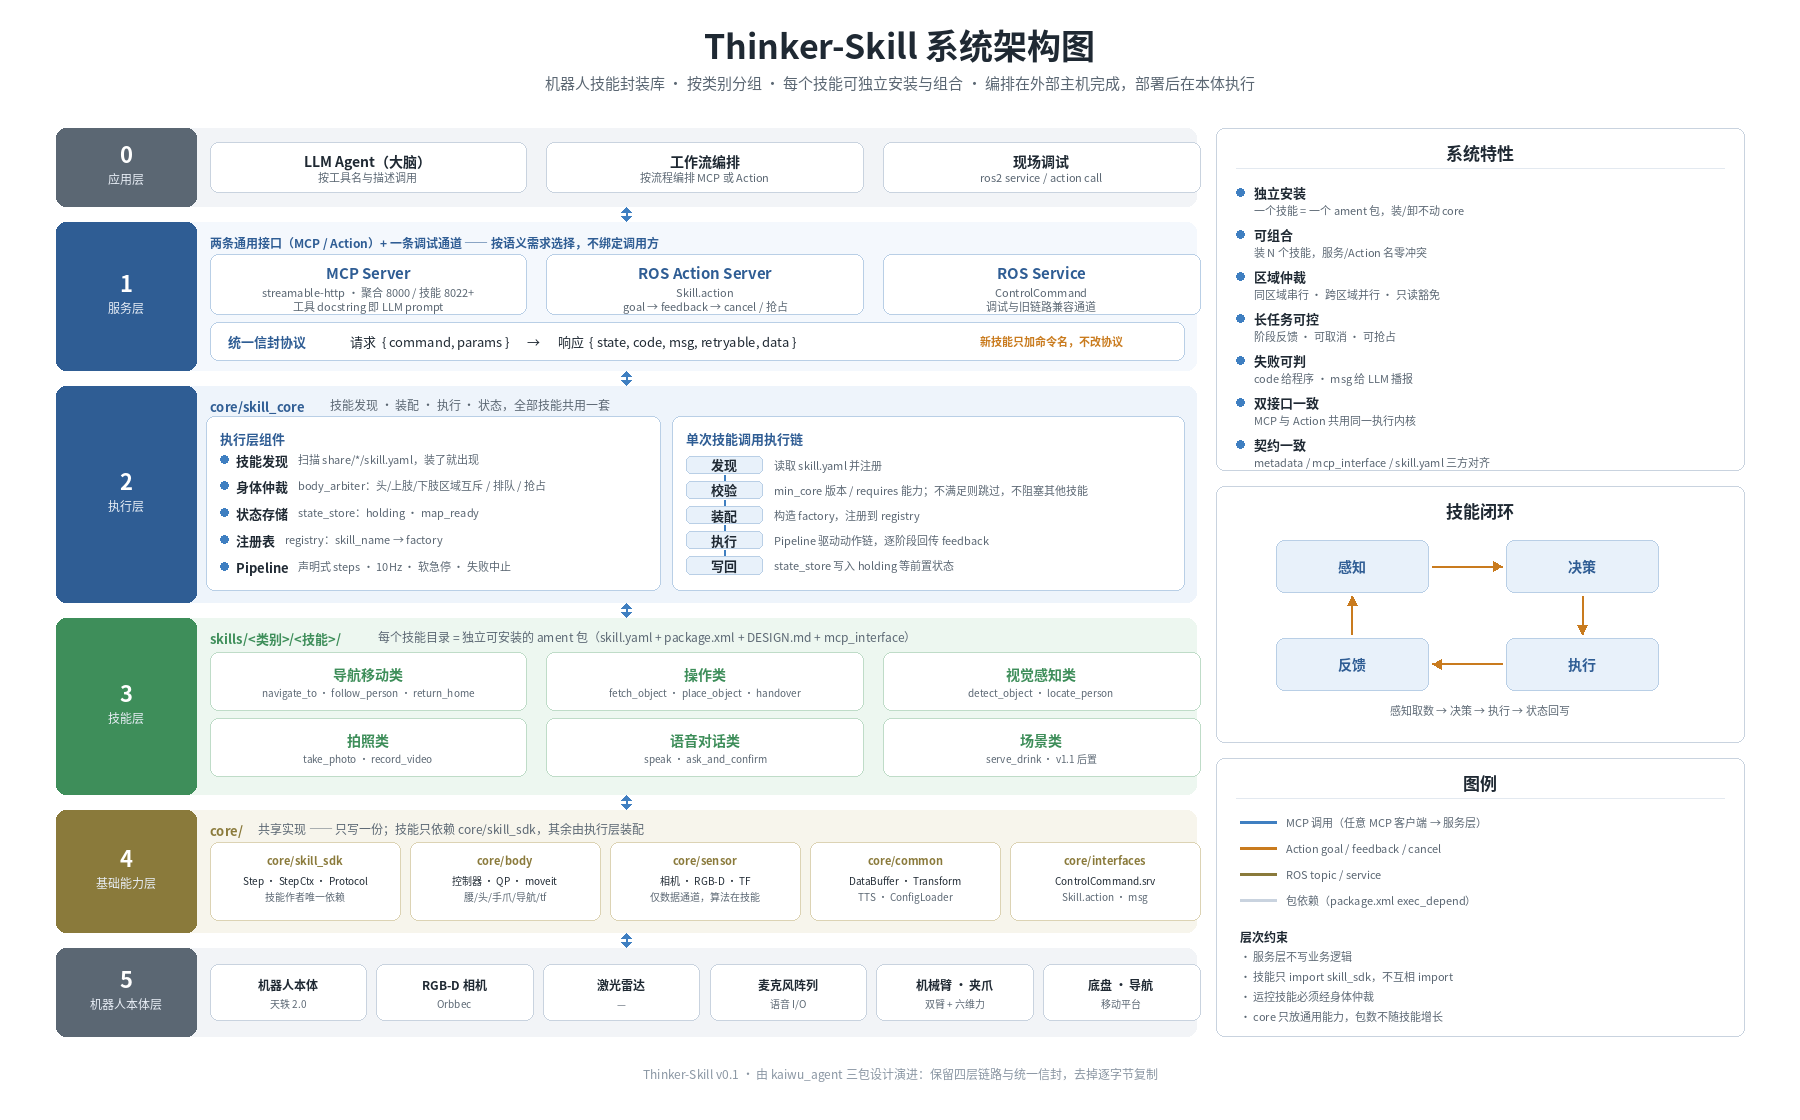
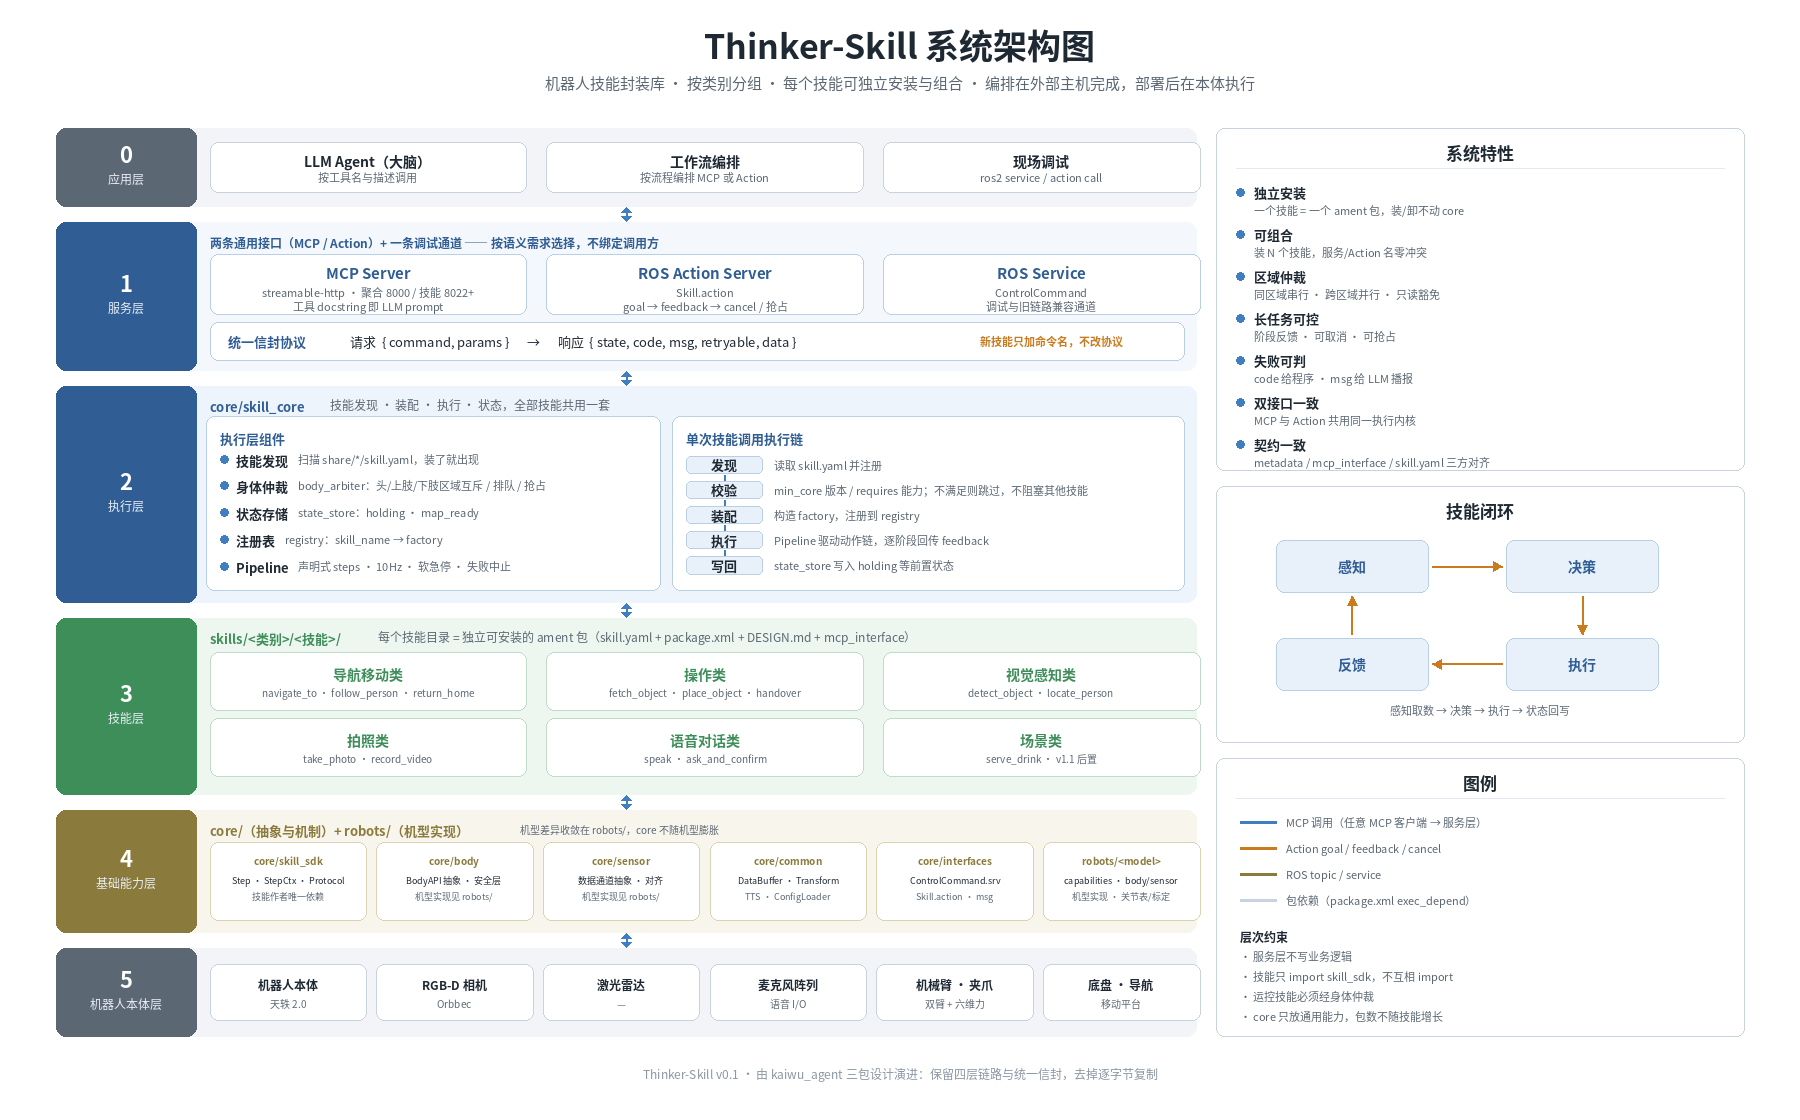
docs: 架构图基础能力层加入 robots/（机型适配）
- 第4层标题改为 core/（抽象与机制）+ robots/（机型实现）

- core/body、core/sensor 描述收窄为抽象，机型实现指向 robots/

- 新增 robots/<model> 卡片

Changed region(s): [[0.1244, 0.7188, 0.56, 0.8125], [0.5911, 0.75, 0.6533, 0.8125]]

diff --git a/tools/render_architecture.py b/tools/render_architecture.py
@@ -195,22 +195,23 @@ def main():
     # ---------- 4. 基础能力层 ----------
     y, h = 810, 122
     band(d, y, h, "4", "基础能力层", "#F7F5EC", "#8A7A3B")
-    txt(d, (210, y + 10), "core/", 13, "#8A7A3B", True)
-    txt(d, (258, y + 10), "共享实现 —— 只写一份；技能只依赖 core/skill_sdk，其余由执行层装配", 12, SUB)
+    txt(d, (210, y + 10), "core/（抽象与机制）+ robots/（机型实现）", 13, "#8A7A3B", True)
+    txt(d, (520, y + 12), "机型差异收敛在 robots/，core 不随机型膨胀", 10, SUB)
     caps = [("core/skill_sdk", "Step · StepCtx · Protocol", "技能作者唯一依赖"),
-            ("core/body", "控制器 · QP · moveit", "腰/头/手爪/导航/tf"),
-            ("core/sensor", "相机 · RGB-D · TF", "仅数据通道，算法在技能"),
+            ("core/body", "BodyAPI 抽象 · 安全层", "机型实现见 robots/"),
+            ("core/sensor", "数据通道抽象 · 对齐", "机型实现见 robots/"),
             ("core/common", "DataBuffer · Transform", "TTS · ConfigLoader"),
-            ("core/interfaces", "ControlCommand.srv", "Skill.action · msg")]
-    cw4 = (990 - 40) / 5
+            ("core/interfaces", "ControlCommand.srv", "Skill.action · msg"),
+            ("robots/<model>", "capabilities · body/sensor", "机型实现 · 关节表/标定")]
+    cw4 = (990 - 50) / 6
     for i, (t, s1, s2) in enumerate(caps):
         x = 210 + i * (cw4 + 10)
         box = (x, y + 32, x + cw4, y + h - 12)
         card(d, box, "#FFFFFF", "#DCD3B4")
         cx = (box[0] + box[2]) / 2
-        txt(d, (cx, y + 50), t, 11, "#8A7A3B", True, "mm")
-        txt(d, (cx, y + 70), s1, 10, INK, False, "mm")
-        txt(d, (cx, y + 86), s2, 9.5, SUB, False, "mm")
+        txt(d, (cx, y + 50), t, 10, "#8A7A3B", True, "mm")
+        txt(d, (cx, y + 70), s1, 9, INK, False, "mm")
+        txt(d, (cx, y + 86), s2, 9, SUB, False, "mm")
 
     # ---------- 5. 机器人本体层 ----------
     y, h = 948, 88
